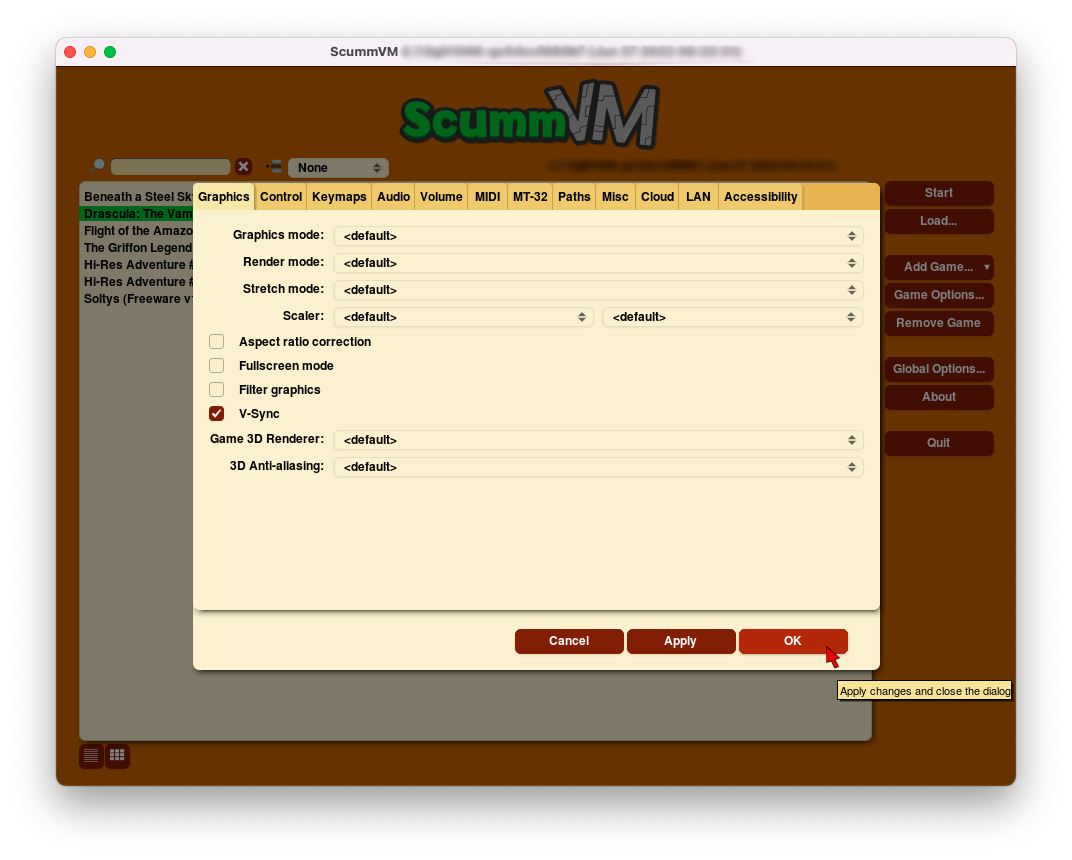
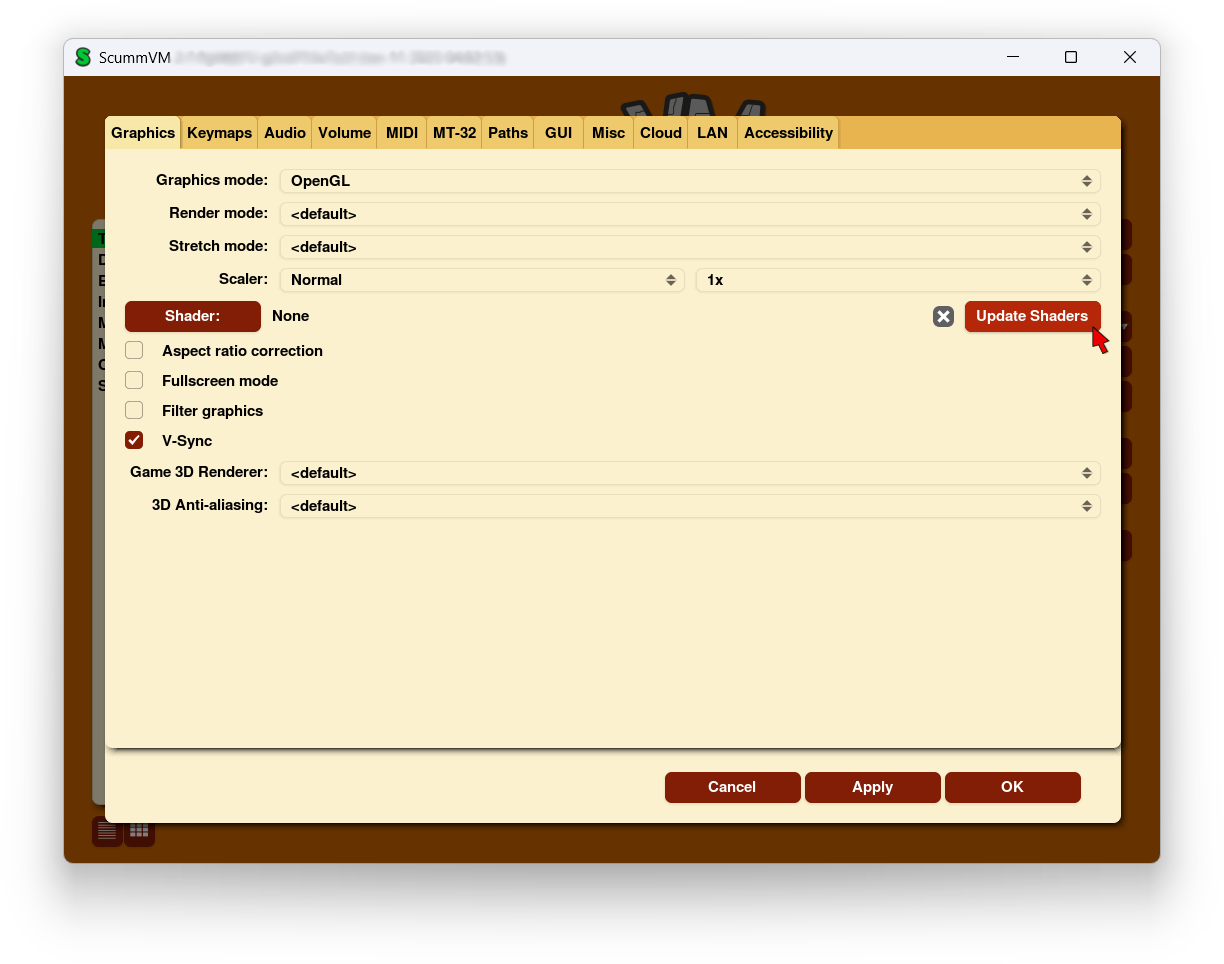
DOCS: Adds information about shaders

diff --git a/doc/docportal/settings/graphics.rst b/doc/docportal/settings/graphics.rst
@@ -2,8 +2,7 @@
 Graphics
 ===============
 
-Use the Graphics tab to change how games look when they are played.
-
+Use the Graphics tab to change how games look when they are played. 
 
 **To change settings globally:**
 
@@ -26,15 +25,14 @@ All settings can also be changed in the :doc:`../advanced_topics/configuration_f
 .. _gfxmode:
 
 Graphics mode
-	Change the graphics backend used to render the ScummVM window on the screen. Different graphics modes have different options available (such as scalers and stretch modes).
+	Changes the graphics backend used to render the ScummVM window on the screen. Different graphics modes have different options available (such as scalers and stretch modes).
 
 	*gfx_mode*
-
 
 .. _render:
 
 Render mode
-	Changes how the game is rendered.
+	Changes how the game is rendered. This is only applicable to certain games which were released on multiple systems, and will reproduce what the game looked like on that system. 
 
 	*render_mode*
 
@@ -47,10 +45,28 @@ Stretch mode
 
 .. _scalers:
 
-Scalers
+Scaler
 	Changes the resolution of the game, while also selecting which filter is used to scale up the resolution. For example, a 2x scaler will take a 320x200 resolution game and scale it up to 640x400.
 
 	*scaler* and *scale_factor*
+
+Shaders
+	Similar to render mode, but applicable to all games, shaders are graphics filters that change the way a game looks. Select the **Shader** button, select a shader from the list and then select **Choose**. Alternatively, select **Pick file instead...** to browse your computer for shaders to use. ScummVM only accepts GLSL files in the .glslp format. 
+
+.. figure:: ../images/settings/shader_picker.png
+
+	The shader picker
+
+	Once back in the Graphics tab, select **Apply** to apply the chosen shader. A test pattern pops up to preview the chosen shader, along with a confirmation dialog. Choose **Yes** to keep the new shader, or **No** to revert to previous settings. ScummVM reverts to the previous setting in 10 seconds if no action is taken; this is a safety feature. 
+
+.. figure:: ../images/settings/test_pattern.png
+
+	The shader test pattern
+
+Update Shaders
+	Click on the Update Shaders button to download new or updated shaders. ScummVM will scan to find applicable shader packs; once these have been found, click on the **Download** button in the pop up window to start the download. Click the **Hide** button to close the window and continue the download in the background. Use the **Cancel download** button to cancel the download. Select **Clear Cache** to delete downloaded shaders.
+
+	The shader packs can also be downloaded manually from https://downloads.scummvm.org/frs/icons/ and must be placed in the :ref:`Icon Path <iconspath>`. 
 
 .. _ratio:
 

diff --git a/doc/docportal/advanced_topics/understand_graphics.rst b/doc/docportal/advanced_topics/understand_graphics.rst
@@ -205,6 +205,15 @@ Below are some of the common render modes, to illustrate how the render mode set
 
     Maniac Mansion with Amiga (32 color) render mode
 
+Shaders
+------------
+
+Shaders change the way a game is rendered, and can be used to make a game look exactly how you remember it from years past - right down to the border of your Gameboy console and its old LCD screen, or your CRT monitor. Alternatively, use shaders simply to improve the overall look and feel of a game. 
+
+The shaders included in the ScummVM pack are curated from the Libretro repository, and are grouped according to effect. For an overview of specific shaders, see the `Libretro documentation <https://docs.libretro.com/shader/introduction/>`_
+
+
+
 Filter graphics
 ----------------
 
